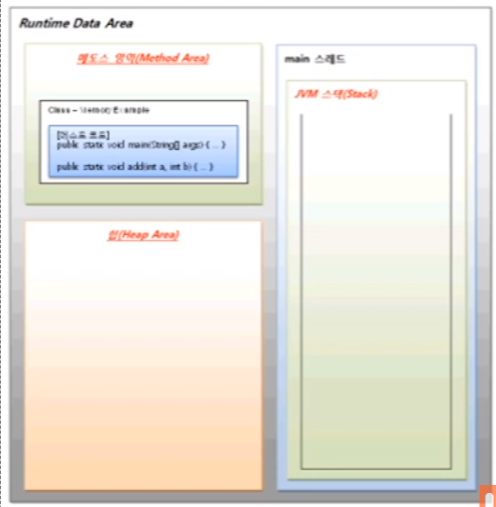
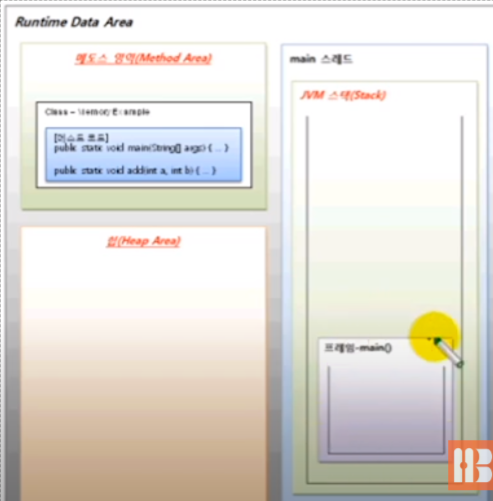
5. updated

diff --git a/basics/This-is-Java5.md b/basics/This-is-Java5.md
@@ -10,36 +10,25 @@
 - 참조타입: 객체를 참조하는 타입, 직접 값을 가지지 않고, 참조 객체의 번지를 가지고 있음
 - int age = 25, double price = 100.5 에서 25, 100.5는 기본 타입으로, 직접 값이 스택 영역에 저장됨
 - String name = “신용권”, “독서”는 힙 영역에 값을 저장한 객체가 생성되고, 이 번지가 스택 영역 변수에 저장됨 → 메모리 주소(번지)를 가지고 있다가, 필요할 주소로 때 객체를 이용
-
-## **5.2 메모리 사용 영역**
-
-![Untitled](./images/5(1).png)
-
-- 프로그램을 실행하면, JVM이 구동됨 → JVM이 구동될 때, OS에서 할당받은 메모리 영역을 3가지로 구분
-- 오른쪽 그림 전체가 Runtime Data Area 메모리 영역(자바가 실행될 때, 운영체제에서 받는 메모리 영역)
-- 메소드 영역: 클래스 코드들이 올라감
-- 힙 영역: 프로그램이 실행될 때, 이 객체를 이용해 데이터를 저장하거나, 메소드를 호출
-- JVM 스택:
-    - 메서드를 호출할 때마다 프레임이 생성, 프레임 안에는 변수들이 위치
-    - 프레임이 제거되는 시점: 프레임이 생성된 메서드 호출이 끝나게 되면 자동적으로 없어짐
+- 
 
 ### **메모리 사용 영역 실행 순서**
 
-→ 1) JVM 구동 명령
+### **→ 1) JVM 구동 명령**
 
 ```jsx
 java (exe) MemoryExample
 ```
 
-→ 2) JVM 구동
+### **→ 2) JVM 구동**
 
 → OS(운영체제)로부터 메모리를 할당받음(운영체제에서 받은 메모리 영역: Runtime Data Area)
 
 → Runtime Data Area 영역이 만들어지며 메소드 영역, 힙 영역 자동 생성
 
-![Untitled](./images/5(2).png)
+![Untitled](./images/5(1).png)
 
-→ 3) MemoryExample(class)을 메모리에 로딩: 바이트 코드를 로딩
+### **→ 3) MemoryExample(class)을 메모리에 로딩: 바이트 코드를 로딩**
 
 → 바이트 코드가 로딩되면, 메소드 영역에 클래스 내용이 올라감
 
@@ -47,14 +36,265 @@ java (exe) MemoryExample
 
 ⇒ 코드 자체가 올라가는 것이 아닌, 분석된 내용이 올라감
 
-![Untitled](./images/5(3).png)
+```java
+// 메소드 영역
+Class - MemoryExample.java
+[메소드 코드]
+public static void main(String[] args) {...}
+public static void add(int a, int b) {...}
+```
 
-→ 4) main 스레드 생성: main 메서드를 실행시키는 코드 흐름
+![Untitled](./images/5(2).png)
+
+### **→ 4) main 스레드 생성: main 메서드를 실행시키는 코드 흐름**
 
 → main 스레드 생성 동시에 JVM 스택 생성됨
 
+![Untitled](./images/5(3).png)
+
+### **→ 5) main() 메서도 호출**
+
+→ JVM 스택에 main 메서드 호출하는 프레임 생성됨
+
 ![Untitled](./images/5(4).png)
 
-→ 5) main() 메서도 호출
+### **→ 6) main()의 매개변수가 String 배열 값으로 들어옴**
 
-→ JVM 스택에 프레임 생성됨
+```java
+public static void main(String[] args) {
+	// ....
+}
+```
+
+→ 매개변수 args가 프레임 내부에 생성됨
+
+⇒ 프레임 - main() 내부
+
+| 100 | args |
+| --- | --- |
+
+⇒ 힙(Heap Area)
+
+| String[] 배열 (100번지) |
+| --- |
+
+→ String 배열 객체는 heap 내부에 생성됨
+
+⇒ 만약, 100번지에 String 배열 객체가 생성되었다면, args에는 100번지라는 주소값이 저장됨
+
+![Untitled](./images/5(5).png)
+
+### **→ 7) int sum = 0; 생성**
+
+```java
+public static void main(String[] args) {
+	int sum = 0;
+}
+```
+
+→ int sum = 0; 코드에 의해 메모리가 변형이 되는데, 변수기 때문에 프레임 내부에 생성이 됨
+
+→ 즉, sum이라는 변수가 생성이 되며 0이라는 값이 저장됨 
+
+⇒ 프레임 - main() 내부
+
+| 0 | sum |
+| --- | --- |
+| 100 | args |
+
+![Untitled](./images/5(6).png)
+
+### **→ 8, 9) if 문 검증 후, int v2 = 10; 생성**
+
+```java
+public static void main(String[] args) {
+	int sum = 0;
+	if (sum==0) {
+		int v2 = 10;
+		int v3 = 20;
+	}
+}
+```
+
+→ sum==0이면, int v2 = 10, int v3 = 20; 가 생성됨
+
+⇒ 프레임 - main() 내부
+
+| 20 | v3 |
+| --- | --- |
+| 10 | v2 |
+| 0 | sum |
+| 100 | args |
+
+![Untitled](./images/5(7).png)
+
+### **→ 10) add() 메소드 호출**
+
+```java
+public static void main(String[] args) {
+	int sum = 0;
+	if (sum==0) {
+		int v2 = 10;
+		int v3 = 20;
+		sum = add(v2, v3);
+	}
+}
+
+public static int add(int a, int b) {
+	return a + b;
+}
+```
+
+→ 메소드를 호출했기 때문에 add() 프레임이 추가됨
+
+→ add()의 파라미터 v2, v3는 add() 메서드의 a, b에 대입이 되게 됨
+
+→ 메모리에 a, b 변수와 각각 10, 20 값이 저장됨
+
+⇒ 프레임 - add()
+
+| 20 | b |
+| --- | --- |
+| 10 | a |
+
+⇒ 프레임 - main()
+
+| 20 | v3 |
+| --- | --- |
+| 10 | v2 |
+| 0 | sum |
+| 100 | args |
+
+![Untitled](./images/5(8).png)
+
+### **→ 11) 프레임 제거:** 값이 return 되고 모든 실행이 끝나는 시점에서 add() 메서드에 의해 생성된 프레임이 제거됨
+
+```java
+public static void main(String[] args) {
+	int sum = 0;
+	if (sum==0) {
+		int v2 = 10;
+		int v3 = 20;
+		sum = add(v2, v3);
+	}
+}
+
+public static int add(int a, int b) {
+	return a + b;
+} //-------(메소드 끝나는 시점)
+```
+
+![Untitled](./images/5(9).png)
+
+### **→ 12) main() 프레임의 sum 값 변화**
+
+→ add() 메서드가 리턴한 값 30이 sum에 저장이 되며, main() 프레임의 sum의 값이 30으로 변함
+
+⇒ 프레임 - main()
+
+| 20 | v3 |
+| --- | --- |
+| 10 | v2 |
+| 30 | sum |
+| 100 | args |
+
+![Untitled](./images/5(10).png)
+
+### **→ 13) main() 프레임의 v2, v3 값 제거**
+
+→ if 문이 끝나는 시점에서 v2, v3는 메모리에서 제거됨
+
+⇒ 프레임 - main()
+
+| 30 | sum |
+| --- | --- |
+| 100 | args |
+
+```java
+public static void main(String[] args) {
+	int sum = 0;
+	if (sum==0) {
+		int v2 = 10;
+		int v3 = 20;
+		sum = add(v2, v3);
+	} //----(if 끝나는 시점)
+}
+```
+
+![Untitled](./images/5(11).png)
+
+### → 14) 프로그램 종료
+
+→ System.out.println(sum)으로 sum 의 값 출력 후 
+
+```java
+public static void main(String[] args) {
+	int sum = 0;
+	if (sum==0) {
+		int v2 = 10;
+		int v3 = 20;
+		sum = add(v2, v3);
+	}
+	System.out.println(sum);
+} //-----(main 메서드 끝나는 시점)
+```
+
+⇒ main() 메서드 종료 시점에서
+
+⇒ int sum = 0; 으로 선언했던 변수 메모리에서 삭제됨
+
+⇒ 매개변수인 String[] args도 삭제됨
+
+![Untitled](./images/5(12).png)
+
+⇒ main()이 끝나게 되면 main() 프레임이 사라짐
+
+![Untitled](./images/5(13).png)
+
+### **→ 15) JVM이 종료되면서 프로그램도 종료, Runtime Data Area도 없어짐**
+
+![Untitled](./images/5(14).png)
+
+### 더 알아보기
+
+![전체](./images/5(15).png)
+
+전체
+
+![기본 타입 변수](./images/5(16).png)
+
+기본 타입 변수
+
+1. 스택에 v1라는 변수가 생성이 되며, A에 유니코드가 저장됨
+2. 스택 영역에 v2가 생성, 100 값 저장, v3 이하동일
+    
+    if 가 끝나는 시점에서 v2, v3 변수 제거됨
+    
+3. 스택에 v4 변수 생성, true 값 저장
+- 기본 타입 변수는 직접 값을 가지고 있음
+
+![참조 타입 변수 - 배열](./images/5(17).png)
+
+참조 타입 변수 - 배열
+
+- 10, 20, 30 값을 가진 배열 객체를 scores 변수가 “참조한다”고 해석
+- scores 변수는 스택 영역에 생성, 배열 값은 힙 영역에 생성
+- 힙 영역에 생성된 배열 객체의 번지를 스택의 scores에 저장
+- 번지 참조 변수: 배열 타입 변수는 직접 값을 가지는 것이 아닌, 배열 객체가 생성된 번지를 가짐
+
+![참조 타입 변수 - 문자열](./images/5(18).png)
+
+참조 타입 변수 - 문자열
+
+- 위 String은 클래스 타입이며, 참조 변수
+- 객체 생성 연산자인 new를 이용해 String 객체 생성
+- name 변수는 String 객체의 번지를 가지고 있음
+- 힙 영역에 생성된, 문자열을 가진 String 객체의 번지수를 스택 영역의 name 변수에 저장
+- 힙 영역에 생성된 String 객체의 번지가 100이라면, 스택 영역의 name에는 100을 저장함
+- new 연산자를 사용하지 않고 문자열 리터럴을 사용해서 아래와 같이 생성했을 때도, 힙 영역에 해당 문자열에 대한 객체가 생성되고, 그 객체의 번지가 스택 영역의 변수에 저장됨
+    
+    ```java
+    String name3 = "name";
+    ```
+
+## **5.3 참조 변수의 ==, != 연산**

diff --git a/README.md b/README.md
@@ -1,6 +1,7 @@
 # This-is-Java
-1. [Settings](https://github.com/abarthdew/this-is-Java/blob/main/basics/This-is-Java1.md)
-2. [Data Type Basic](https://github.com/abarthdew/this-is-Java/blob/main/basics/This-is-Java2.md)
-3. [Operator](https://github.com/abarthdew/this-is-Java/blob/main/basics/This-is-Java3.md)
-4. [Condition Statement](https://github.com/abarthdew/this-is-Java/blob/main/basics/This-is-Java4.md)
-5. [Data Type Advance](https://github.com/abarthdew/this-is-Java/blob/main/basics/This-is-Java5.md)
+1. [Settings](https://github.com/abarthdew/this-is-Java/blob/main/basics/This-is-Java1.md)   
+2. [Data Type Basic](https://github.com/abarthdew/this-is-Java/blob/main/basics/This-is-Java2.md)   
+![변수 타입 분류](images/readme.png)   
+3. [Operator](https://github.com/abarthdew/this-is-Java/blob/main/basics/This-is-Java3.md)   
+4. [Condition Statement](https://github.com/abarthdew/this-is-Java/blob/main/basics/This-is-Java4.md)   
+5. [Data Type Advance](https://github.com/abarthdew/this-is-Java/blob/main/basics/This-is-Java5.md)   
